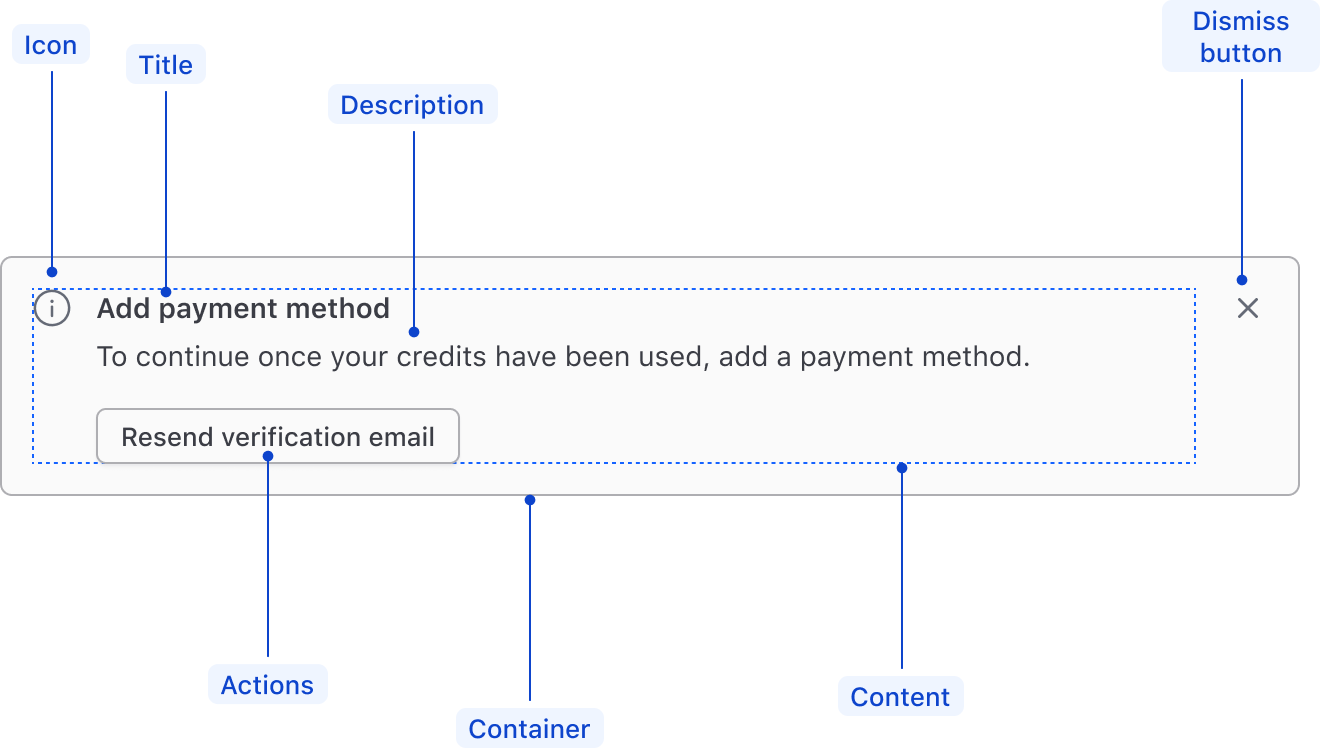
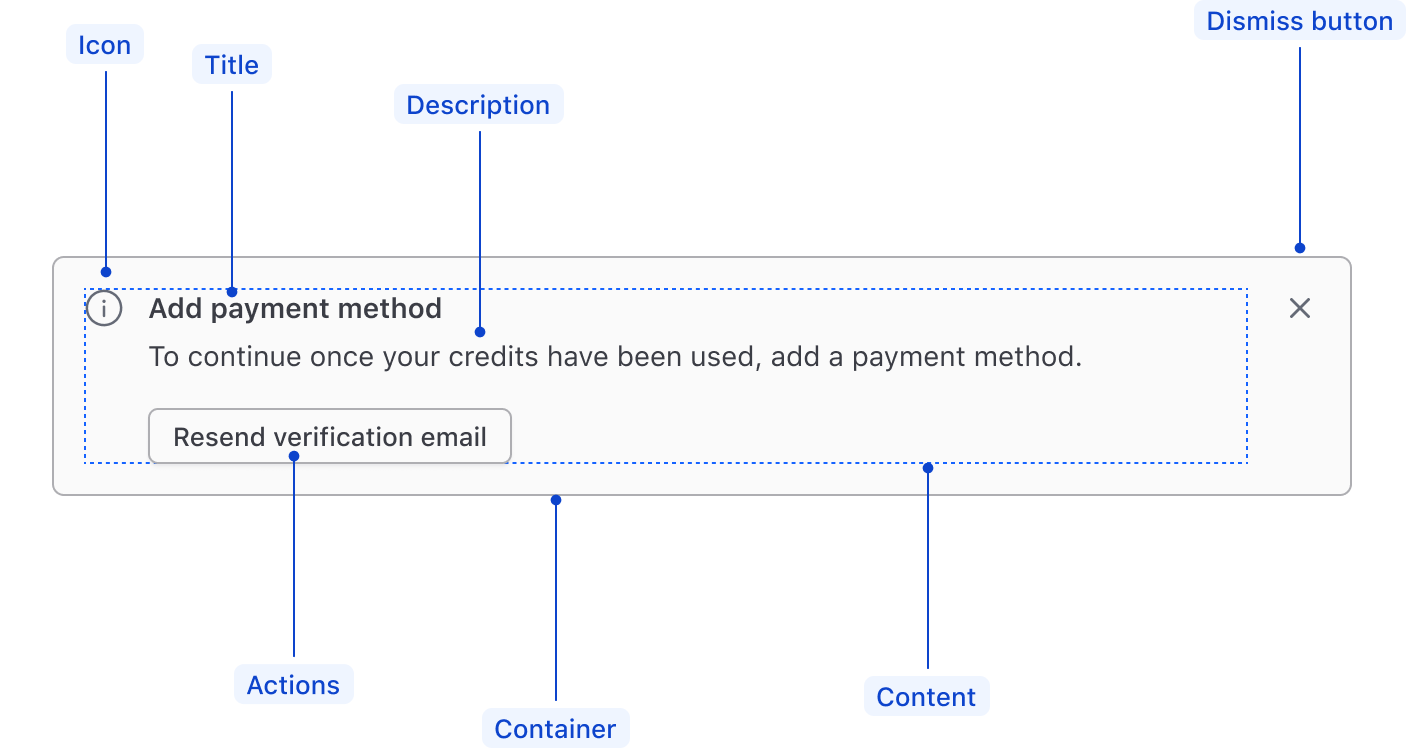
Updates based on feedback
- Added "usage" as a table header to anatomy section
- Updated the anatomy image to remove a line break

diff --git a/website/docs/components/alert/partials/specifications/anatomy.md b/website/docs/components/alert/partials/specifications/anatomy.md
@@ -4,7 +4,7 @@
 
 ![Anatomy of the page alert](/assets/components/alert/alert-anatomy-inline.png)
 
-| Element          |                                                 |
+| Element          | Usage                                           |
 |------------------|-------------------------------------------------|
 | Icon             | Optional, but recommended                       |
 | Title            | Required, if no description Optional, otherwise |
@@ -19,7 +19,7 @@
 
 ![Anatomy of the compact alert](/assets/components/alert/alert-anatomy-compact.png)
 
-| Element          |                               |
+| Element          | Usage                         |
 |------------------|-------------------------------|
 | Icon             | Required                      |
 | Description      | Required                      |
